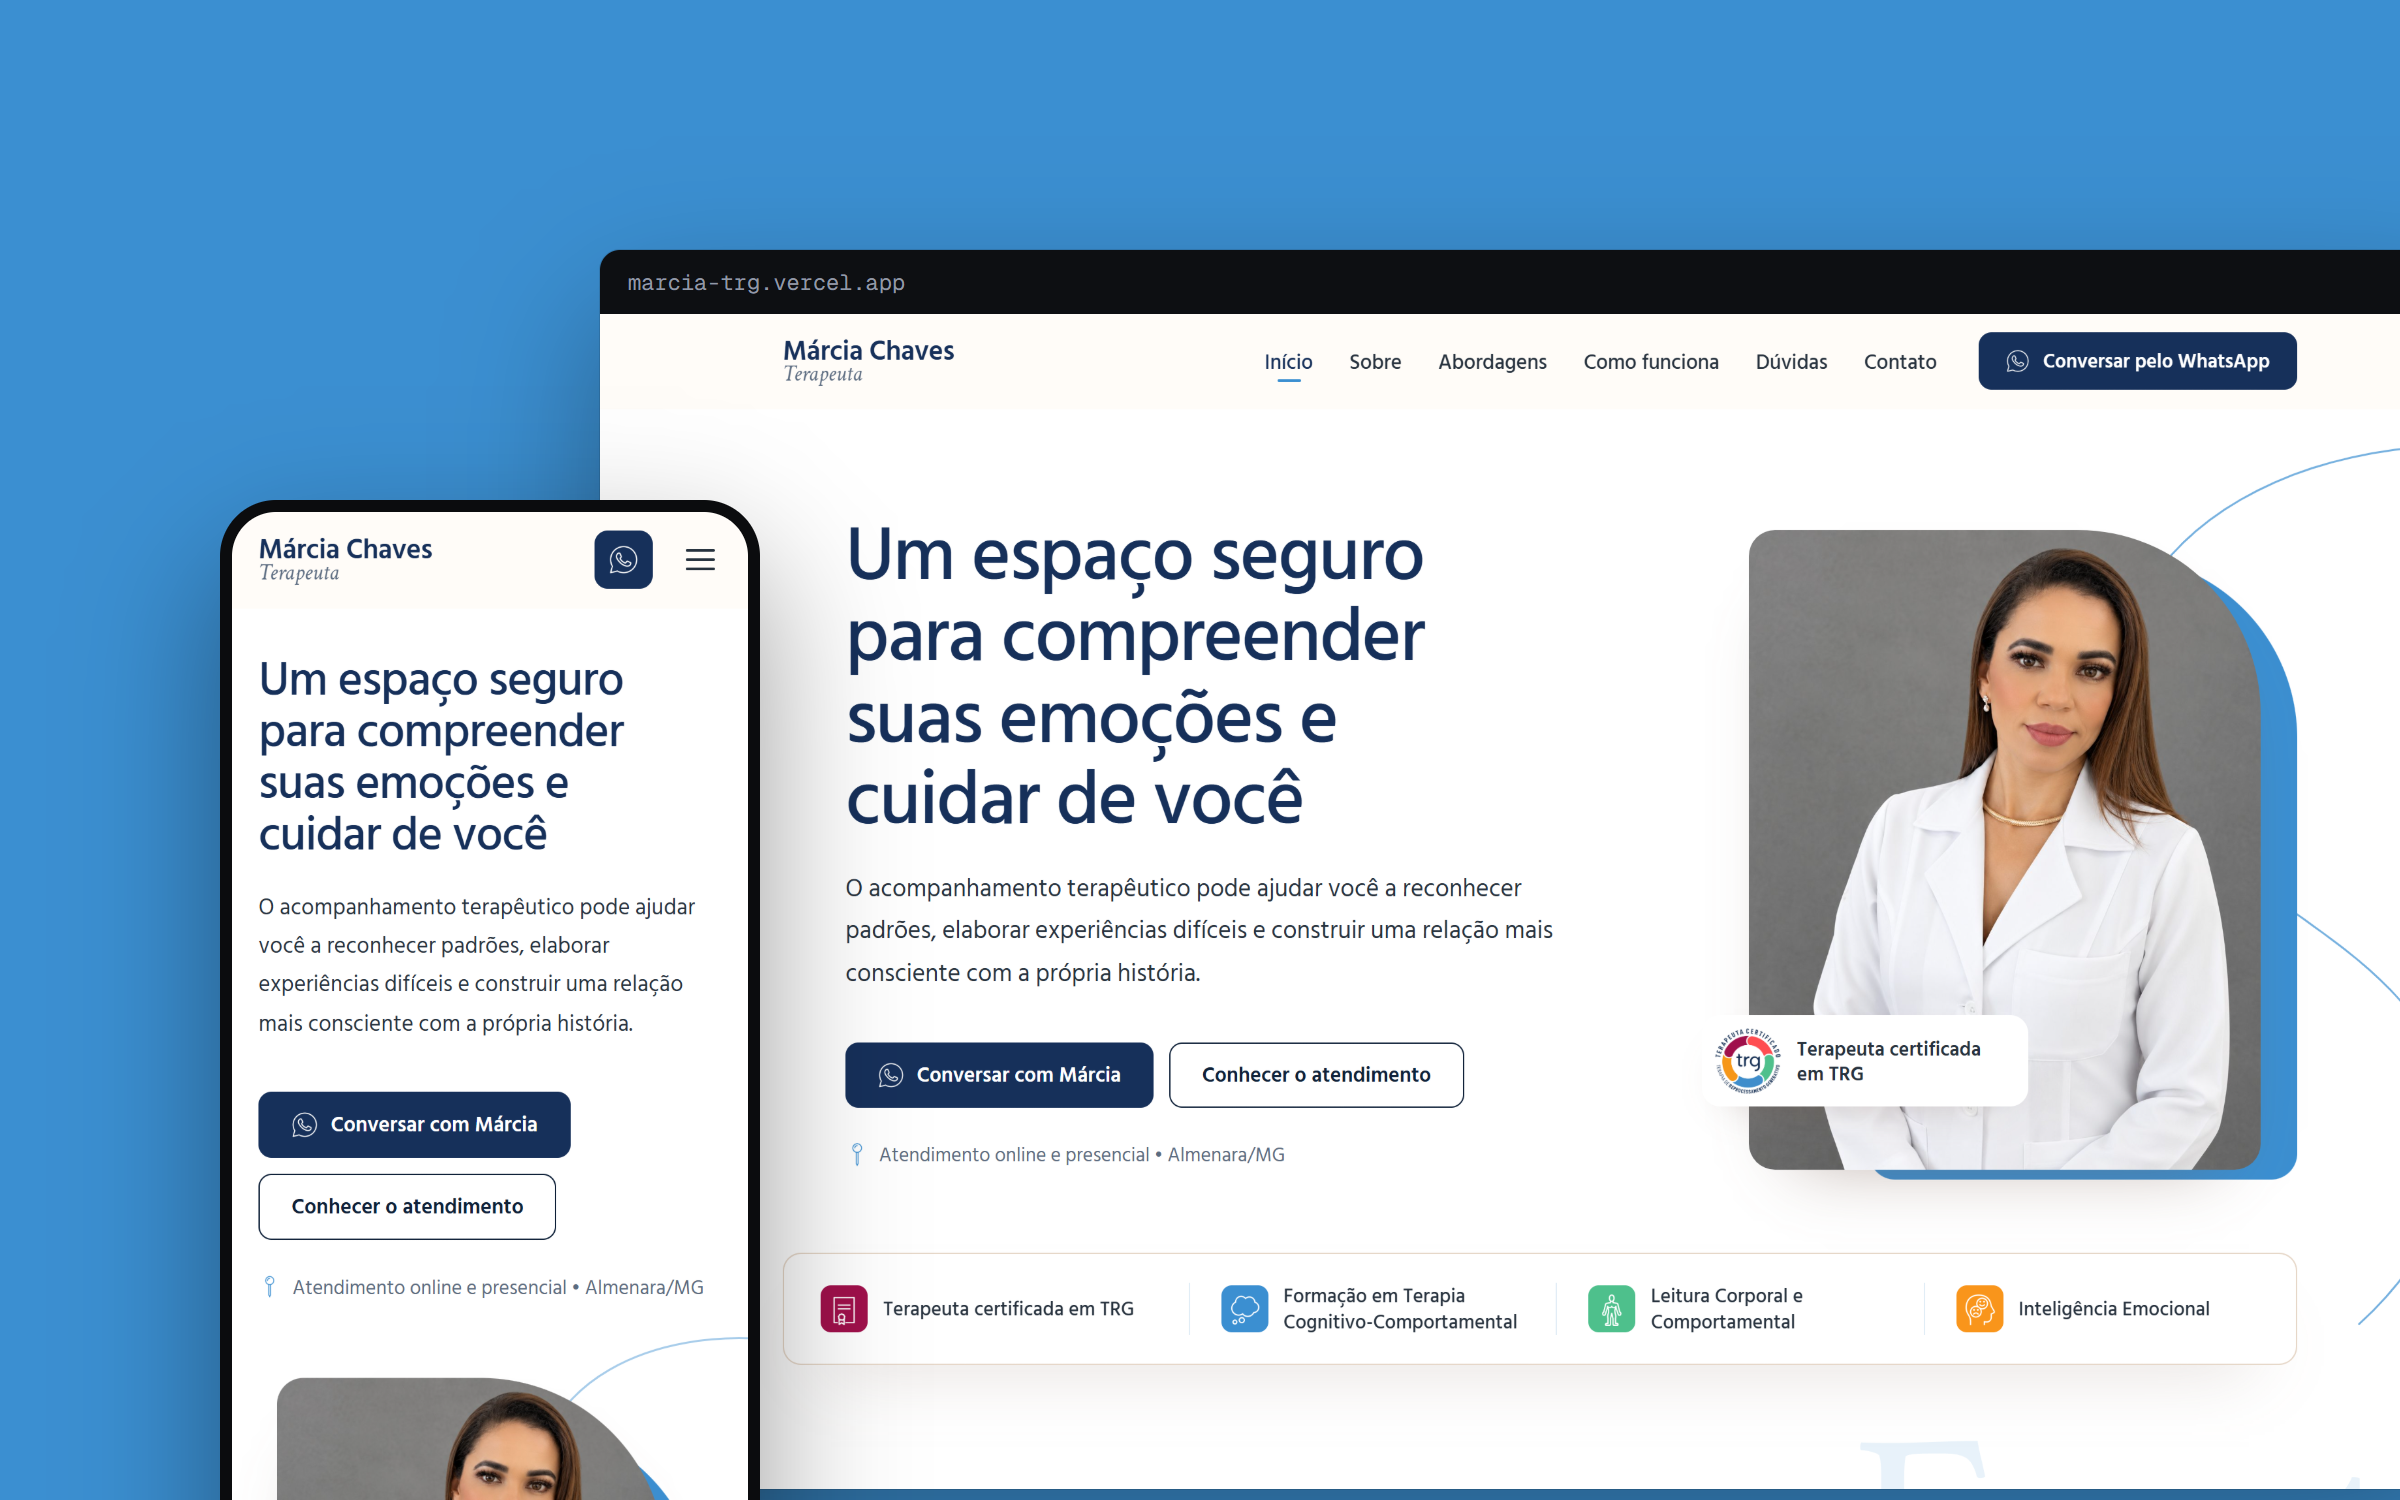
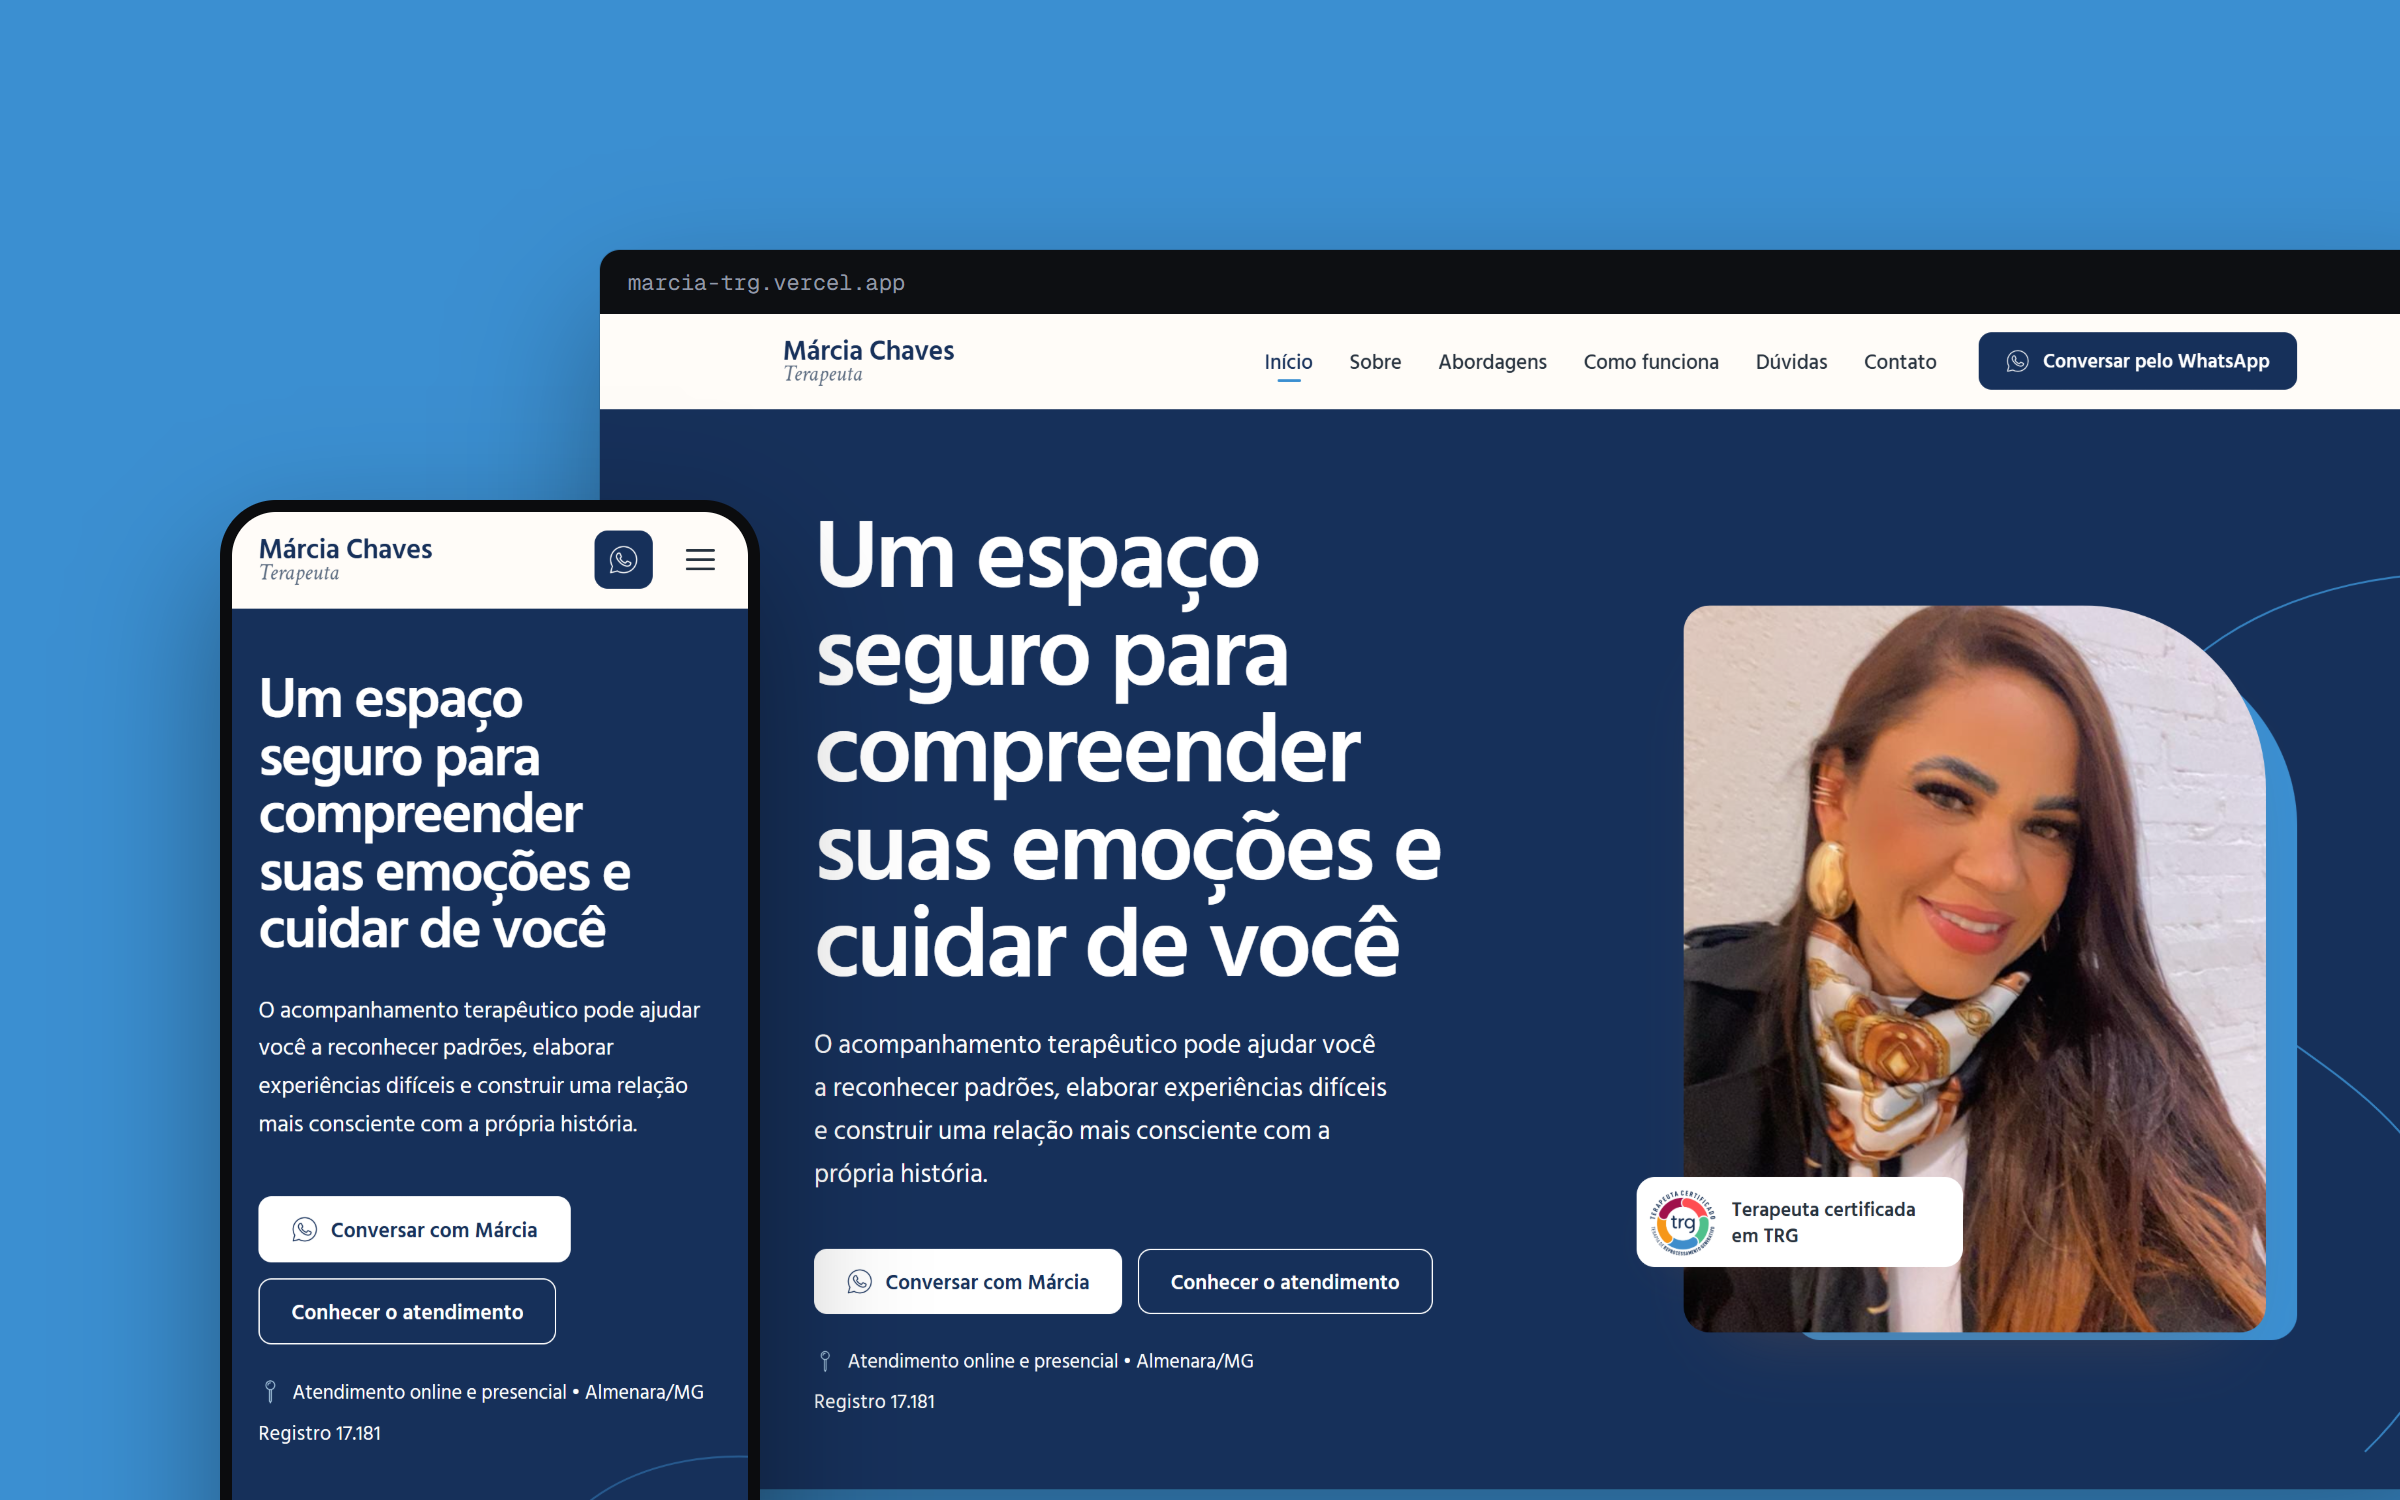
Atualiza telas do case da Márcia Chaves com o novo hero
Novas capturas, capas e imagem de compartilhamento do hero em fundo
marinho com a foto nova; descrições da galeria e direção visual revistas.

Claude-Session: https://claude.ai/code/session_01GJizyjbCxmLKUuYTHipqVs

diff --git a/src/content/projects/marcia-chaves.md b/src/content/projects/marcia-chaves.md
@@ -18,11 +18,11 @@ cover:
 gallery:
   - src: ../../assets/covers/source/marcia-chaves-desktop.png
     device: desktop
-    alt: "Primeira dobra da landing page no desktop: título Um espaço seguro para compreender suas emoções e cuidar de você, botão Conversar com Márcia, foto da terapeuta com o selo TRG e faixa de credenciais."
+    alt: "Primeira dobra da landing page no desktop: hero em fundo marinho com o título Um espaço seguro para compreender suas emoções e cuidar de você em branco, botões Conversar com Márcia e Conhecer o atendimento, e foto da terapeuta com o selo TRG."
     caption: Primeira dobra no desktop
   - src: ../../assets/covers/source/marcia-chaves-mobile.png
     device: mobile
-    alt: "Landing page no celular: título, texto de apoio, botões Conversar com Márcia e Conhecer o atendimento, e atendimento online e presencial em Almenara/MG."
+    alt: "Landing page no celular: hero em fundo marinho com título em branco, texto de apoio, botões Conversar com Márcia e Conhecer o atendimento, e atendimento online e presencial em Almenara/MG."
     caption: Primeira dobra no celular
 case:
   lede: Uma landing page que apresenta o acompanhamento terapêutico com acolhimento e leva a primeira conversa para o WhatsApp.
@@ -33,10 +33,10 @@ case:
   strategy: A página começa pelo acolhimento e pelas credenciais, ajuda a pessoa a se reconhecer em situações comuns, explica as abordagens e como funciona o atendimento, responde dúvidas e termina em uma chamada para o WhatsApp.
   direction:
     title: Direção visual
-    body: A paleta sai do selo TRG. Marinho e azul conduzem títulos e botões, os fundos são claros e as outras cores do selo marcam os ícones das credenciais. Palavras grandes e esmaecidas ao fundo, como Mente, Escuta e Emoções, dão ritmo às seções.
+    body: A paleta sai do selo TRG. O hero abre em marinho, com título e botão principal em branco. Nas seções seguintes os fundos ficam claros, o marinho e o azul conduzem títulos e botões, e as outras cores do selo marcam os ícones das credenciais. Palavras grandes e esmaecidas ao fundo, como Mente, Escuta e Emoções, dão ritmo às seções.
     tokens:
       - label: Marinho
-        value: "#16305A, títulos e botões"
+        value: "#16305A, fundo do hero, títulos e botões"
         color: "#16305A"
       - label: Azul do selo
         value: "#3B8FD1, acento principal"

diff --git a/.site-director/PROJECT_STATE.md b/.site-director/PROJECT_STATE.md
@@ -85,6 +85,8 @@ BUILT (case Márcia Chaves, 2026-09-13):
 - Capas via scripts/covers.mjs (fundo #3B8FD1, azul do selo); OG via scripts/og.mjs
 - Repo do site: https://github.com/adryan1-dev/marcia-trg (PRIVADO, branch master; .claude/ fora do git) → case sem "Ver código". Projeto Vercel marcia-trg conectado ao repo pelo usuário (2026-09-13)
 - Testado: 5 cards (1440/1366/390), percurso até 05/05, case 200, tokens/telas, próximo projeto, OG, JSON-LD, sitemap, overflow 0 nas 7 larguras
+- 2026-09-13 tarde: site da Márcia mudou o hero (fundo marinho #16305A, título/botão brancos, foto nova, linha "Registro 17.181") → telas, capas e OG refeitas; alts da galeria e texto de direção visual atualizados. Tokens de cor/fonte conferidos no CSS publicado (sem mudança). "Registro 17.181" não entra no case (natureza do registro não verificada)
+- ATENÇÃO: essas mudanças do site da Márcia estavam só locais em C:\dev\marcia-trg (não commitadas; commit local 51914ce sem push). GitHub marcia-trg segue na versão antiga e a Vercel está ligada a ele: um deploy pelo git reverteria o hero
 
 PENDENTES COM O USUÁRIO:
 - Márcia: quando aprovar, trocar status do case (e decidir se o repo marcia-trg fica público para exibir "Ver código")
